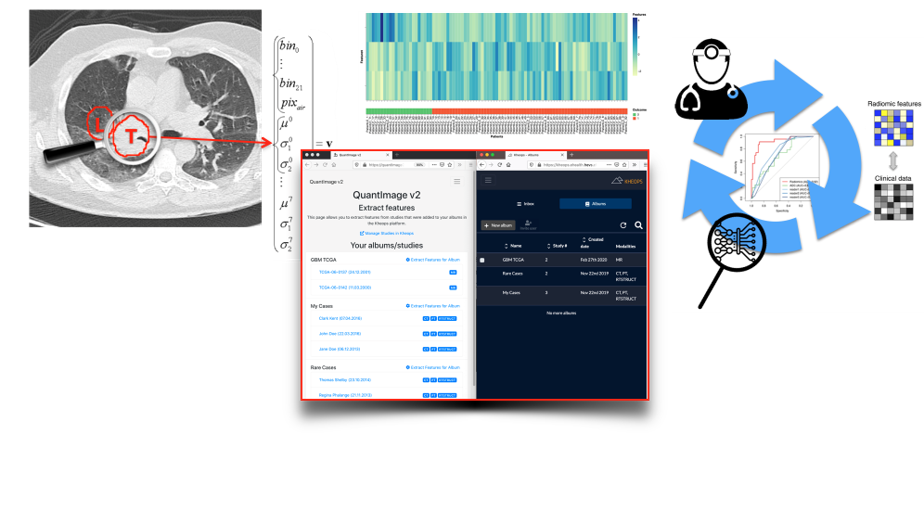
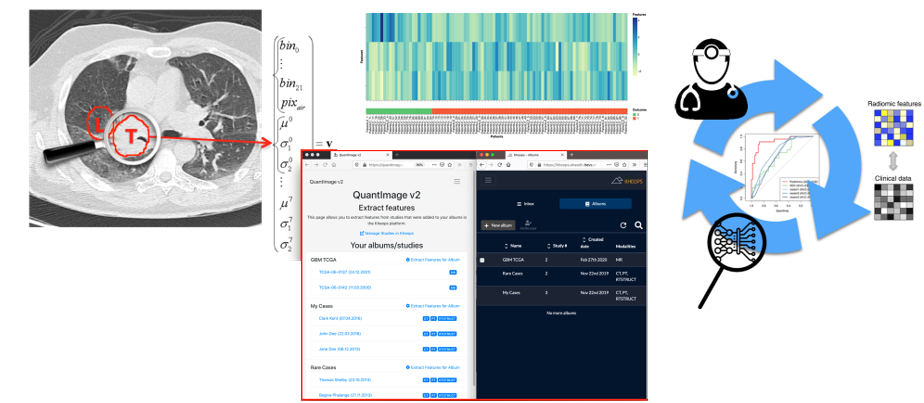
Add citation recommendation & crop overview image

diff --git a/index.md b/index.md
@@ -3,6 +3,11 @@ QuantImage v2 (QI2) is an open-source web-based platform for no-code clinical ra
 
 <img src="assets/images/qi-overview.png" alt="QuantImage v2" title="QuantImage v2 - Overview" />
 
+### Citing QuantImage v2
+**If you are using QuantImage v2 in your research, please cite the following publication:**
+
+Abler, D., Schaer, R., Oreiller, V. *et al.* QuantImage v2: a comprehensive and integrated physician-centered cloud platform for radiomics and machine learning research. *Eur Radiol Exp* **7**, 16 (2023). [https://doi.org/10.1186/s41747-023-00326-z](https://doi.org/10.1186/s41747-023-00326-z)
+
 ### One-stop tool for clinical radiomics research
 To implement this vision, and different to most other radiomics softwares, QI2 supports **all steps of a typical radiomics study workflow**:
 * allowing the user to create patient cohorts, 
